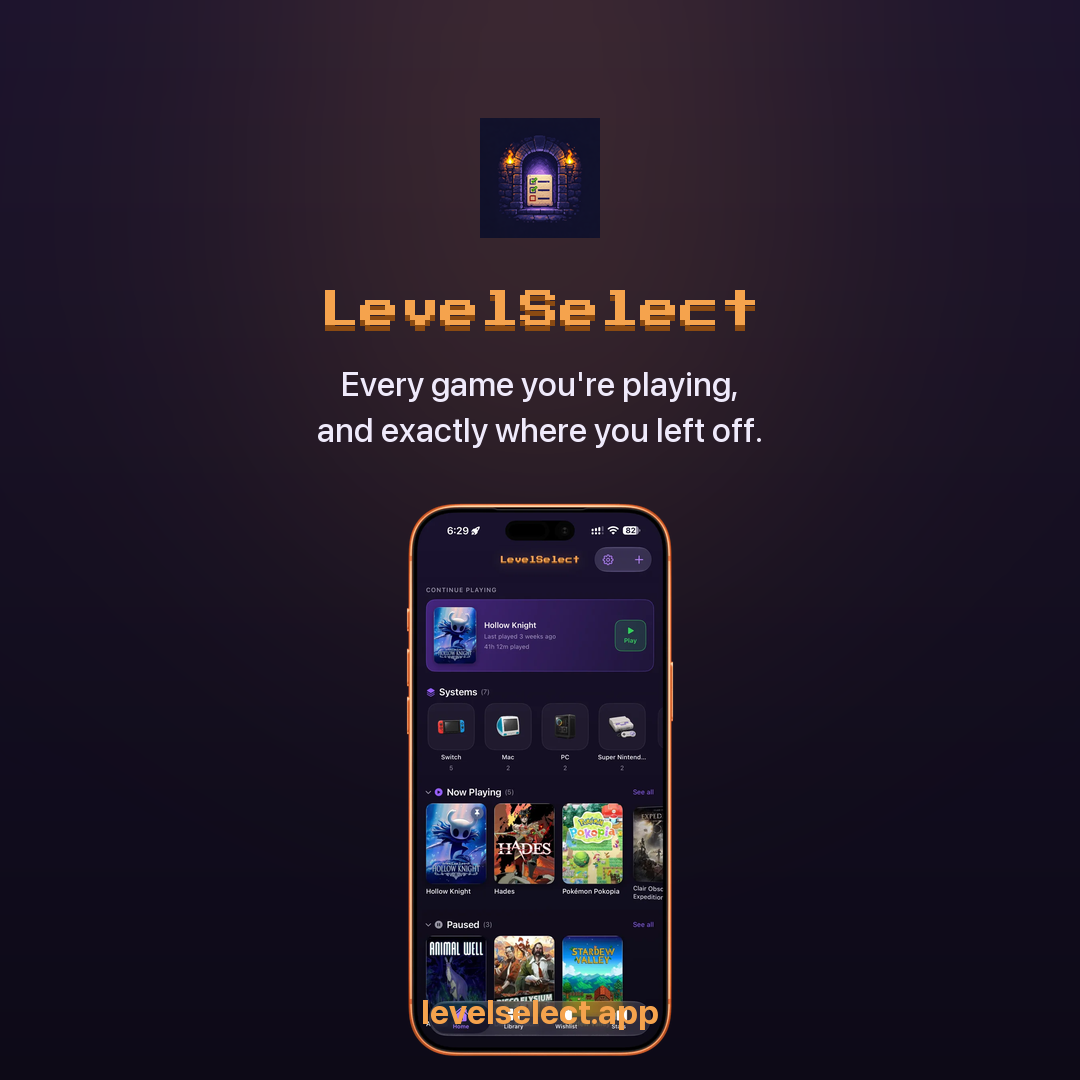
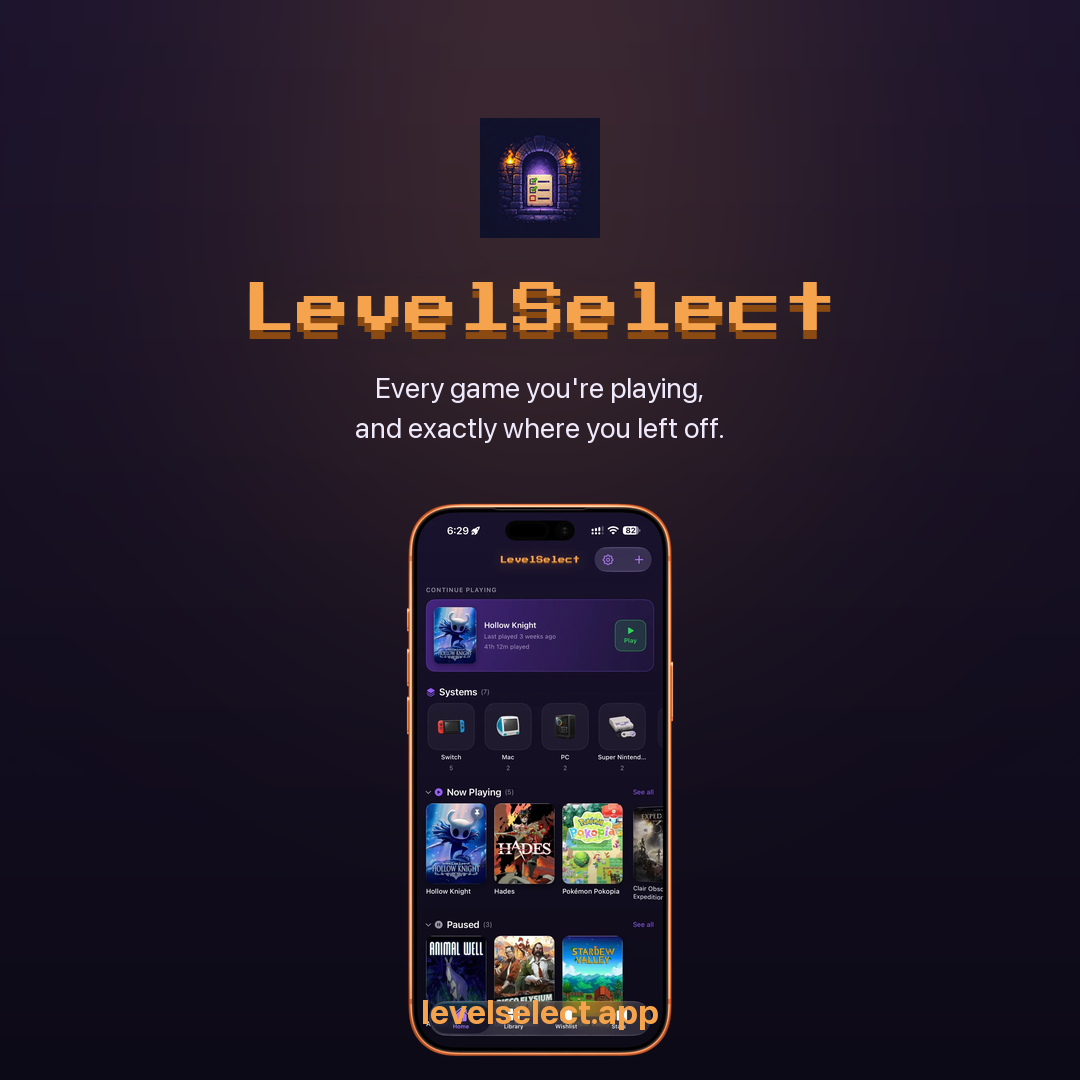
Match the site's wordmark, not an approximation of it
Two things were off against levelselect.app. The wordmark drew only one
of its two shadows — style.css pairs a zero-blur 0.16em offset with a
0.65em torch glow, and without the glow the pixel strokes read thin and
unlit. And the proportions were wrong: the site's hero is a 2.85rem
wordmark over a 1.35rem tagline, roughly two to one, where these had it
at barely one to one, so the tagline competed with the name instead of
sitting under it. Tagline weight drops to 400 to match too.

Changed region(s): [[0.2139, 0.2444, 0.7639, 0.4278]]

diff --git a/site/scripts/make-social-images.py b/site/scripts/make-social-images.py
@@ -60,12 +60,28 @@ def shot(name, height):
     return im.resize((w, height), Image.LANCZOS)
 
 
-def wordmark(draw, xy, size, anchor="lt"):
-    """Torch-coloured, with the site's dropped shadow beneath it."""
+def wordmark(img, xy, size, anchor="lt"):
+    """The site's wordmark, both shadows included.
+
+    style.css uses *two*: a zero-blur offset at 0.16em for legibility (pixel
+    strokes are thin and blur eats their corners) and a soft torch glow at
+    0.65em that fills the gaps between strokes. Drawing only the hard one —
+    as the first pass did — gives a wordmark that reads thin and unlit next
+    to the real thing. CSS blur radius r is roughly a Gaussian sigma of r/2.
+    """
     f = ImageFont.truetype(PIXEL, size)
     x, y = xy
-    draw.text((x, y + size * 0.16), "LevelSelect", font=f, fill=TORCH_DEEP, anchor=anchor)
-    draw.text((x, y), "LevelSelect", font=f, fill=TORCH, anchor=anchor)
+
+    glow_layer = Image.new("RGBA", img.size, (0, 0, 0, 0))
+    ImageDraw.Draw(glow_layer).text((x, y), "LevelSelect", font=f,
+                                    fill=TORCH + (77,), anchor=anchor)   # .3 alpha
+    glow_layer = glow_layer.filter(ImageFilter.GaussianBlur(size * 0.65 / 2))
+    img = Image.alpha_composite(img, glow_layer)
+
+    d = ImageDraw.Draw(img)
+    d.text((x, y + size * 0.16), "LevelSelect", font=f, fill=TORCH_DEEP, anchor=anchor)
+    d.text((x, y), "LevelSelect", font=f, fill=TORCH, anchor=anchor)
+    return img
 
 
 def sans(size, weight=400):
@@ -95,13 +111,14 @@ def open_graph():
     icon = Image.open(PUB / "assets" / "icon.png").convert("RGBA").resize((128, 128), Image.LANCZOS)
     img.paste(icon, (74, 92), icon)
 
-    wordmark(d, (74, 262), 46)
-    d.text((74, 348), "Every game you're playing,", font=sans(38, 500), fill=INK)
-    d.text((74, 398), "and exactly where you left off.", font=sans(38, 500), fill=INK)
-    d.text((74, 470), "Library · session timer · progress tracker",
-           font=sans(25, 400), fill=MUTED)
-    d.text((74, 520), "iPhone · iPad · Mac · Watch", font=sans(23, 400), fill=MUTED)
-    d.text((74, 566), "levelselect.app", font=sans(27, 600), fill=TORCH)
+    img = wordmark(img, (74, 250), 62)
+    d = ImageDraw.Draw(img)
+    d.text((74, 352), "Every game you're playing,", font=sans(32, 400), fill=INK)
+    d.text((74, 396), "and exactly where you left off.", font=sans(32, 400), fill=INK)
+    d.text((74, 462), "Library · session timer · progress tracker",
+           font=sans(24, 400), fill=MUTED)
+    d.text((74, 508), "iPhone · iPad · Mac · Watch", font=sans(22, 400), fill=MUTED)
+    d.text((74, 560), "levelselect.app", font=sans(28, 600), fill=TORCH)
 
     # One device, bled off the right edge so the crop can't behead it.
     s = shot("iphone-01-home-shelf.webp", 700)
@@ -120,9 +137,10 @@ def story():
     icon = Image.open(PUB / "assets" / "icon.png").convert("RGBA").resize((150, 150), Image.LANCZOS)
     img.paste(icon, (465, 300), icon)
 
-    wordmark(d, (540, 505), 46, anchor="mt")
-    d.text((540, 600), "Every game you're playing,", font=sans(40, 500), fill=INK, anchor="mt")
-    d.text((540, 652), "and exactly where you left off.", font=sans(40, 500), fill=INK, anchor="mt")
+    img = wordmark(img, (540, 495), 66, anchor="mt")
+    d = ImageDraw.Draw(img)
+    d.text((540, 610), "Every game you're playing,", font=sans(34, 400), fill=INK, anchor="mt")
+    d.text((540, 656), "and exactly where you left off.", font=sans(34, 400), fill=INK, anchor="mt")
 
     s = shot("iphone-01-home-shelf.webp", 900)
     img.alpha_composite(s, ((W - s.width) // 2, 760))
@@ -142,9 +160,10 @@ def square():
     icon = Image.open(PUB / "assets" / "icon.png").convert("RGBA").resize((120, 120), Image.LANCZOS)
     img.paste(icon, (480, 118), icon)
 
-    wordmark(d, (540, 290), 40, anchor="mt")
-    d.text((540, 372), "Every game you're playing,", font=sans(34, 500), fill=INK, anchor="mt")
-    d.text((540, 418), "and exactly where you left off.", font=sans(34, 500), fill=INK, anchor="mt")
+    img = wordmark(img, (540, 282), 54, anchor="mt")
+    d = ImageDraw.Draw(img)
+    d.text((540, 378), "Every game you're playing,", font=sans(29, 400), fill=INK, anchor="mt")
+    d.text((540, 418), "and exactly where you left off.", font=sans(29, 400), fill=INK, anchor="mt")
 
     s = shot("iphone-01-home-shelf.webp", 560)
     img.alpha_composite(s, ((W - s.width) // 2, 500))
